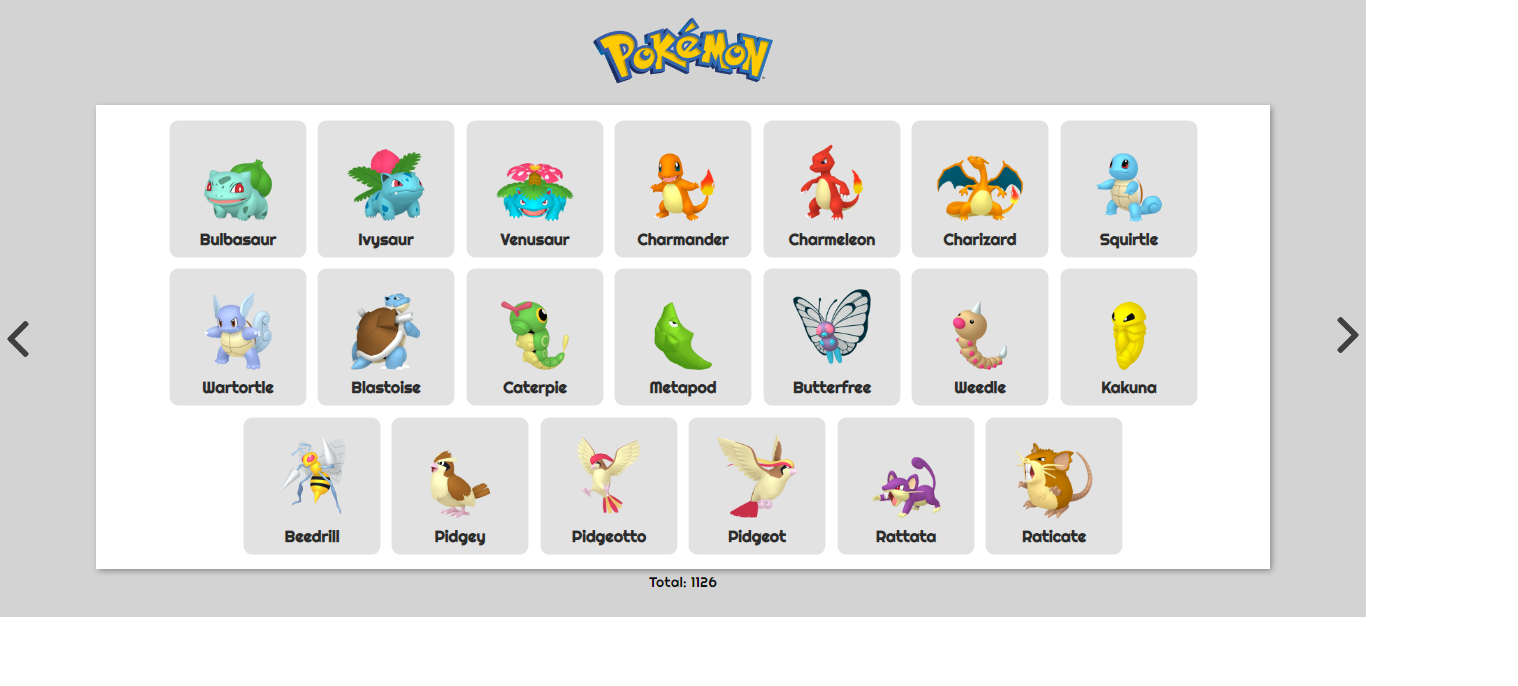
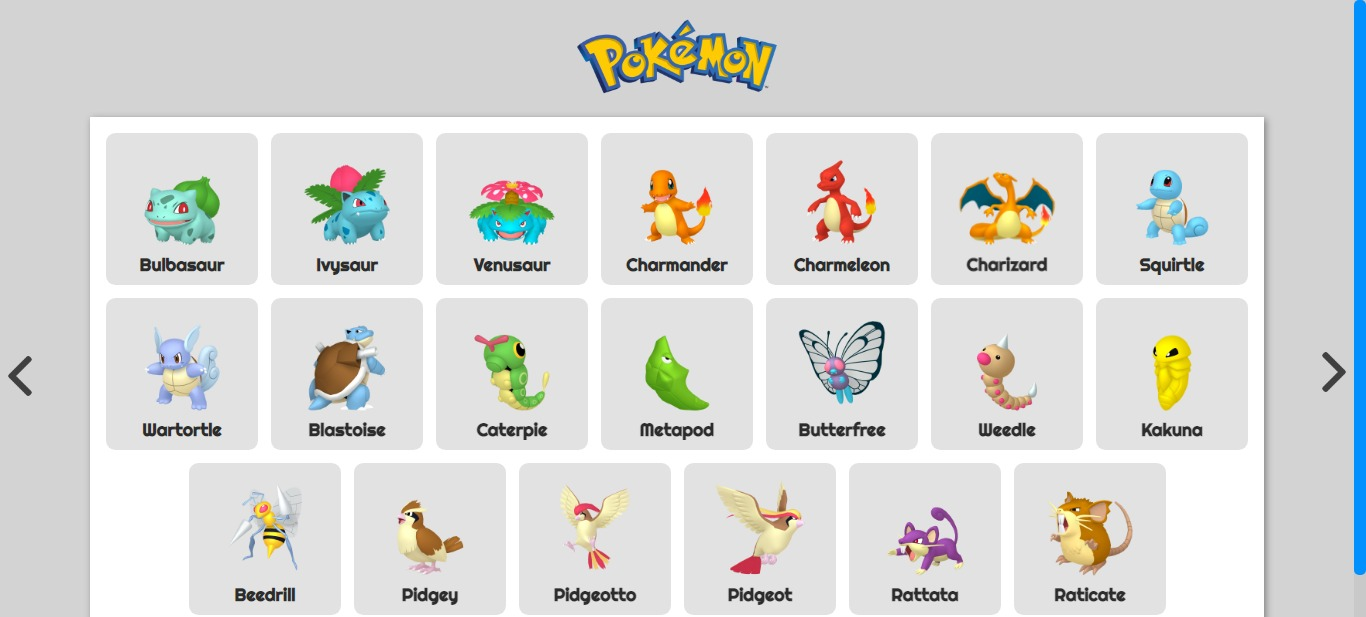
add images

diff --git a/src/components/Projects/Projects.css b/src/components/Projects/Projects.css
@@ -82,6 +82,13 @@ html {
           justify-content: center;
 }
 
+.projectsContent .gridProjects .pokedexAPI img {
+  height: 170px;
+  background-color: red;
+  -o-object-fit: cover;
+     object-fit: cover;
+}
+
 .projectsContent .gridProjects li {
   display: -webkit-box;
   display: -ms-flexbox;
@@ -150,8 +157,8 @@ html {
 }
 
 .projectsContent .gridProjects li img {
-  width: 100%;
-  height: 100%;
+  max-width: 100%;
+  max-height: 100%;
   -ms-flex-item-align: center;
       -ms-grid-row-align: center;
       align-self: center;
@@ -159,6 +166,8 @@ html {
   -webkit-transition: 0.2s ease-out;
   transition: 0.2s ease-out;
   z-index: 2;
+  -o-object-fit: cover;
+     object-fit: cover;
 }
 
 .projectsContent .gridProjects li img:hover {

diff --git a/src/components/Projects/Projects.scss b/src/components/Projects/Projects.scss
@@ -53,6 +53,14 @@ html{
     flex-wrap: wrap;
     margin-top: 30px;
     justify-content:center;
+    .pokedexAPI{
+      img{
+        height: 170px;
+        background-color: red;
+        object-fit: cover;
+      }
+      
+    }
 
     li {
       display: flex;
@@ -106,14 +114,16 @@ html{
         color: #e1e1e6;
         position: absolute;
       }
+      
 
       img {
-        width: 100%;
-        height: 100%;
+        max-width: 100%;
+        max-height: 100%;
         align-self: center;
         border-radius: 5px;
         transition: 0.2s ease-out;
         z-index: 2;
+        object-fit: cover;
 
         &:hover {
           opacity: 0.05;
@@ -122,3 +132,4 @@ html{
     }
   }
 }
+

diff --git a/src/components/Projects/Projects.js b/src/components/Projects/Projects.js
@@ -28,7 +28,7 @@ function Projects() {
           >
             <img alt="" src="/assets/images/todoPrint.png" />
             <p>
-              Esse é um pojeto de uma to-do list para que você consiga organizar
+              Esse é um projeto de uma to-do list para que você consiga organizar
               suas tarefas da maneira mais prática possível.
             </p>
             <button className="visitButton">Visitar</button>
